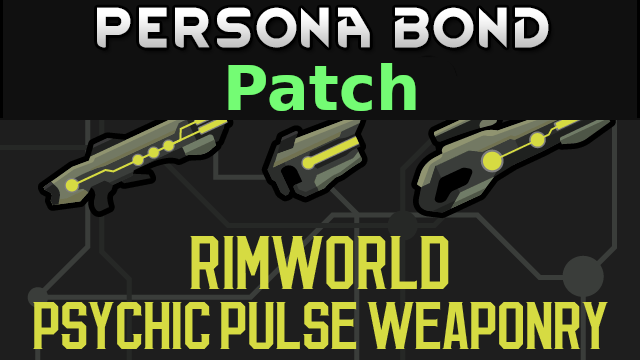
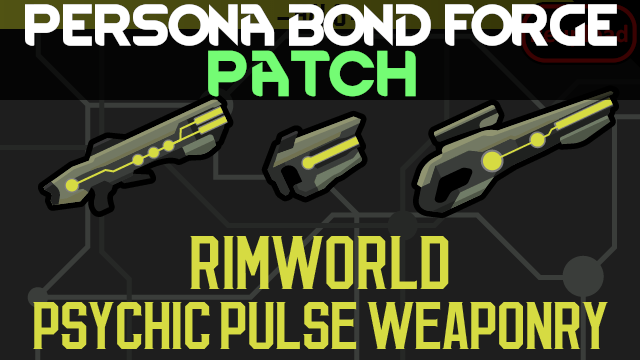
Update Preview.png and README.md

diff --git a/README.md b/README.md
@@ -2,6 +2,14 @@
 
 ![](https://github.com/Daria40K/Persona-Bond-Patch-for-HALO-Psychic-Pulse-Armory/blob/main/About/Preview.png)
 
+## Required Mods
+- [Persona Bond Forge](https://steamcommunity.com/workshop/filedetails/?id=2178003816) (Steam)
+- [HALO: Rimworld Psychic Pulse Armory (Continued)](https://steamcommunity.com/sharedfiles/filedetails/?id=2266844058) (Steam)
+
+## Download
+- [Steam](https://steamcommunity.com/sharedfiles/filedetails/?id=2755400587)
+- [GitHub](https://github.com/Daria40KPersona-Bond-Patch-for-HALO-Psychic-Pulse-Armory/releases)
+
 ## Weapons Patch
 - psychic pulse blade
 - psychic pulse cannon
